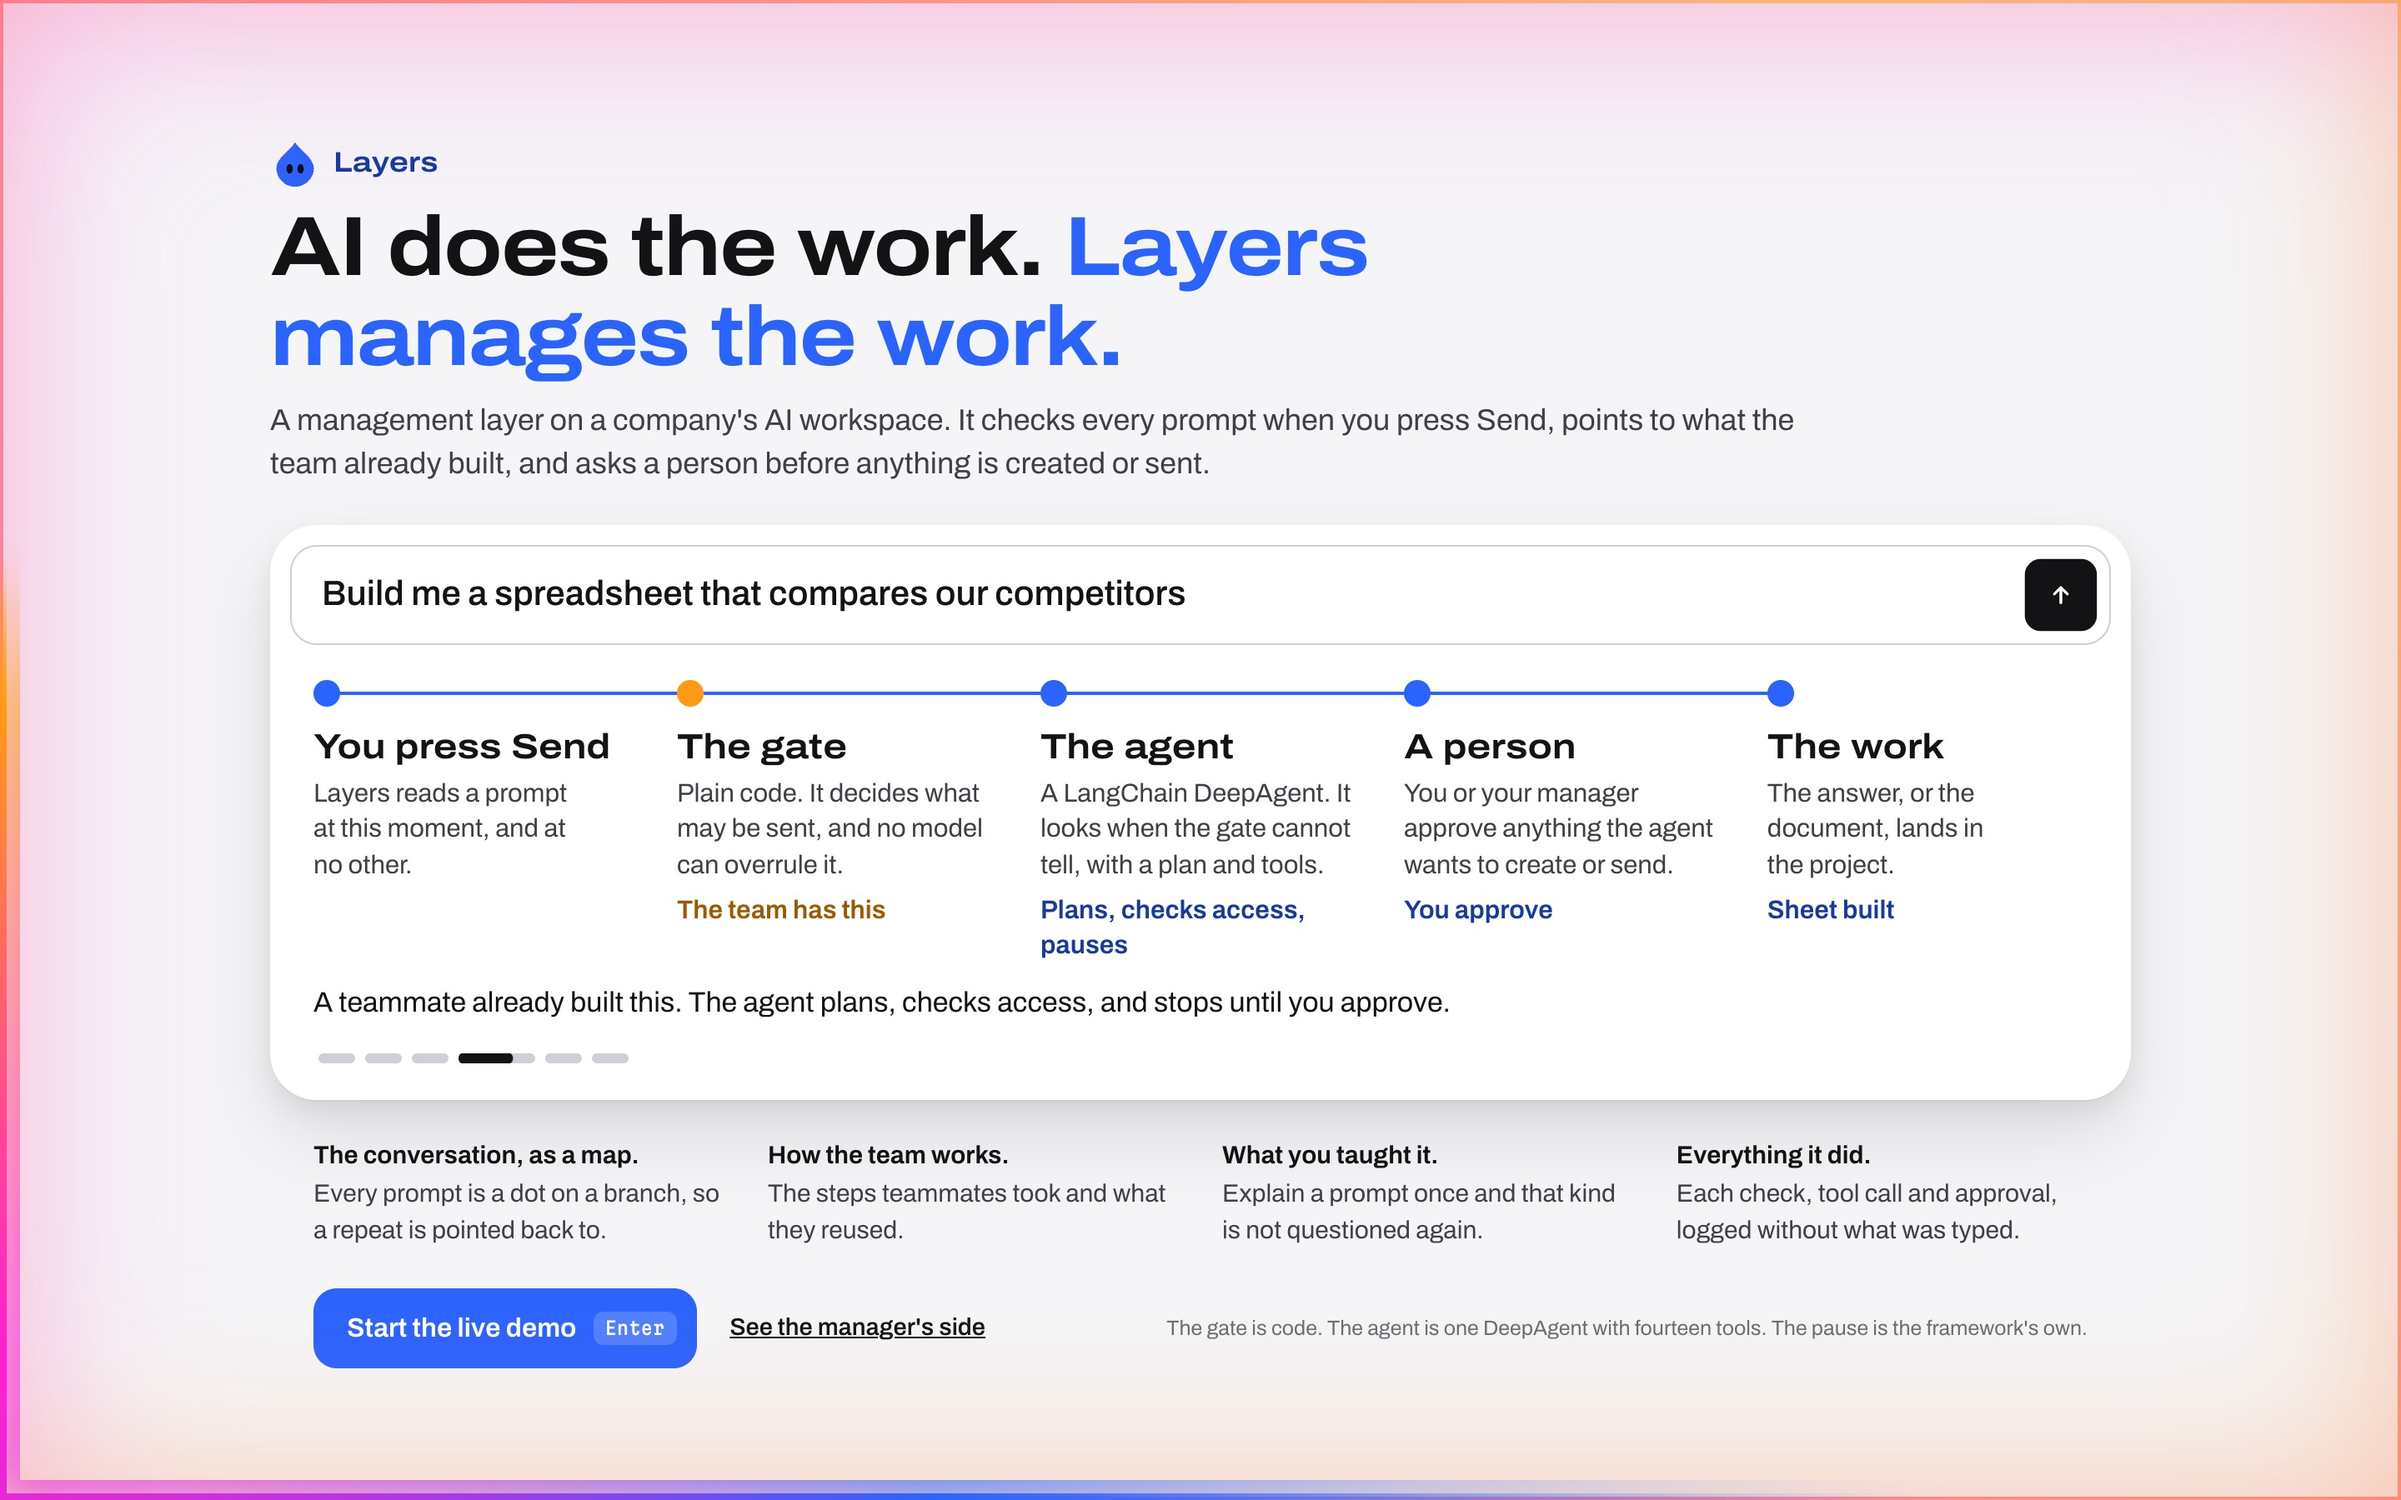
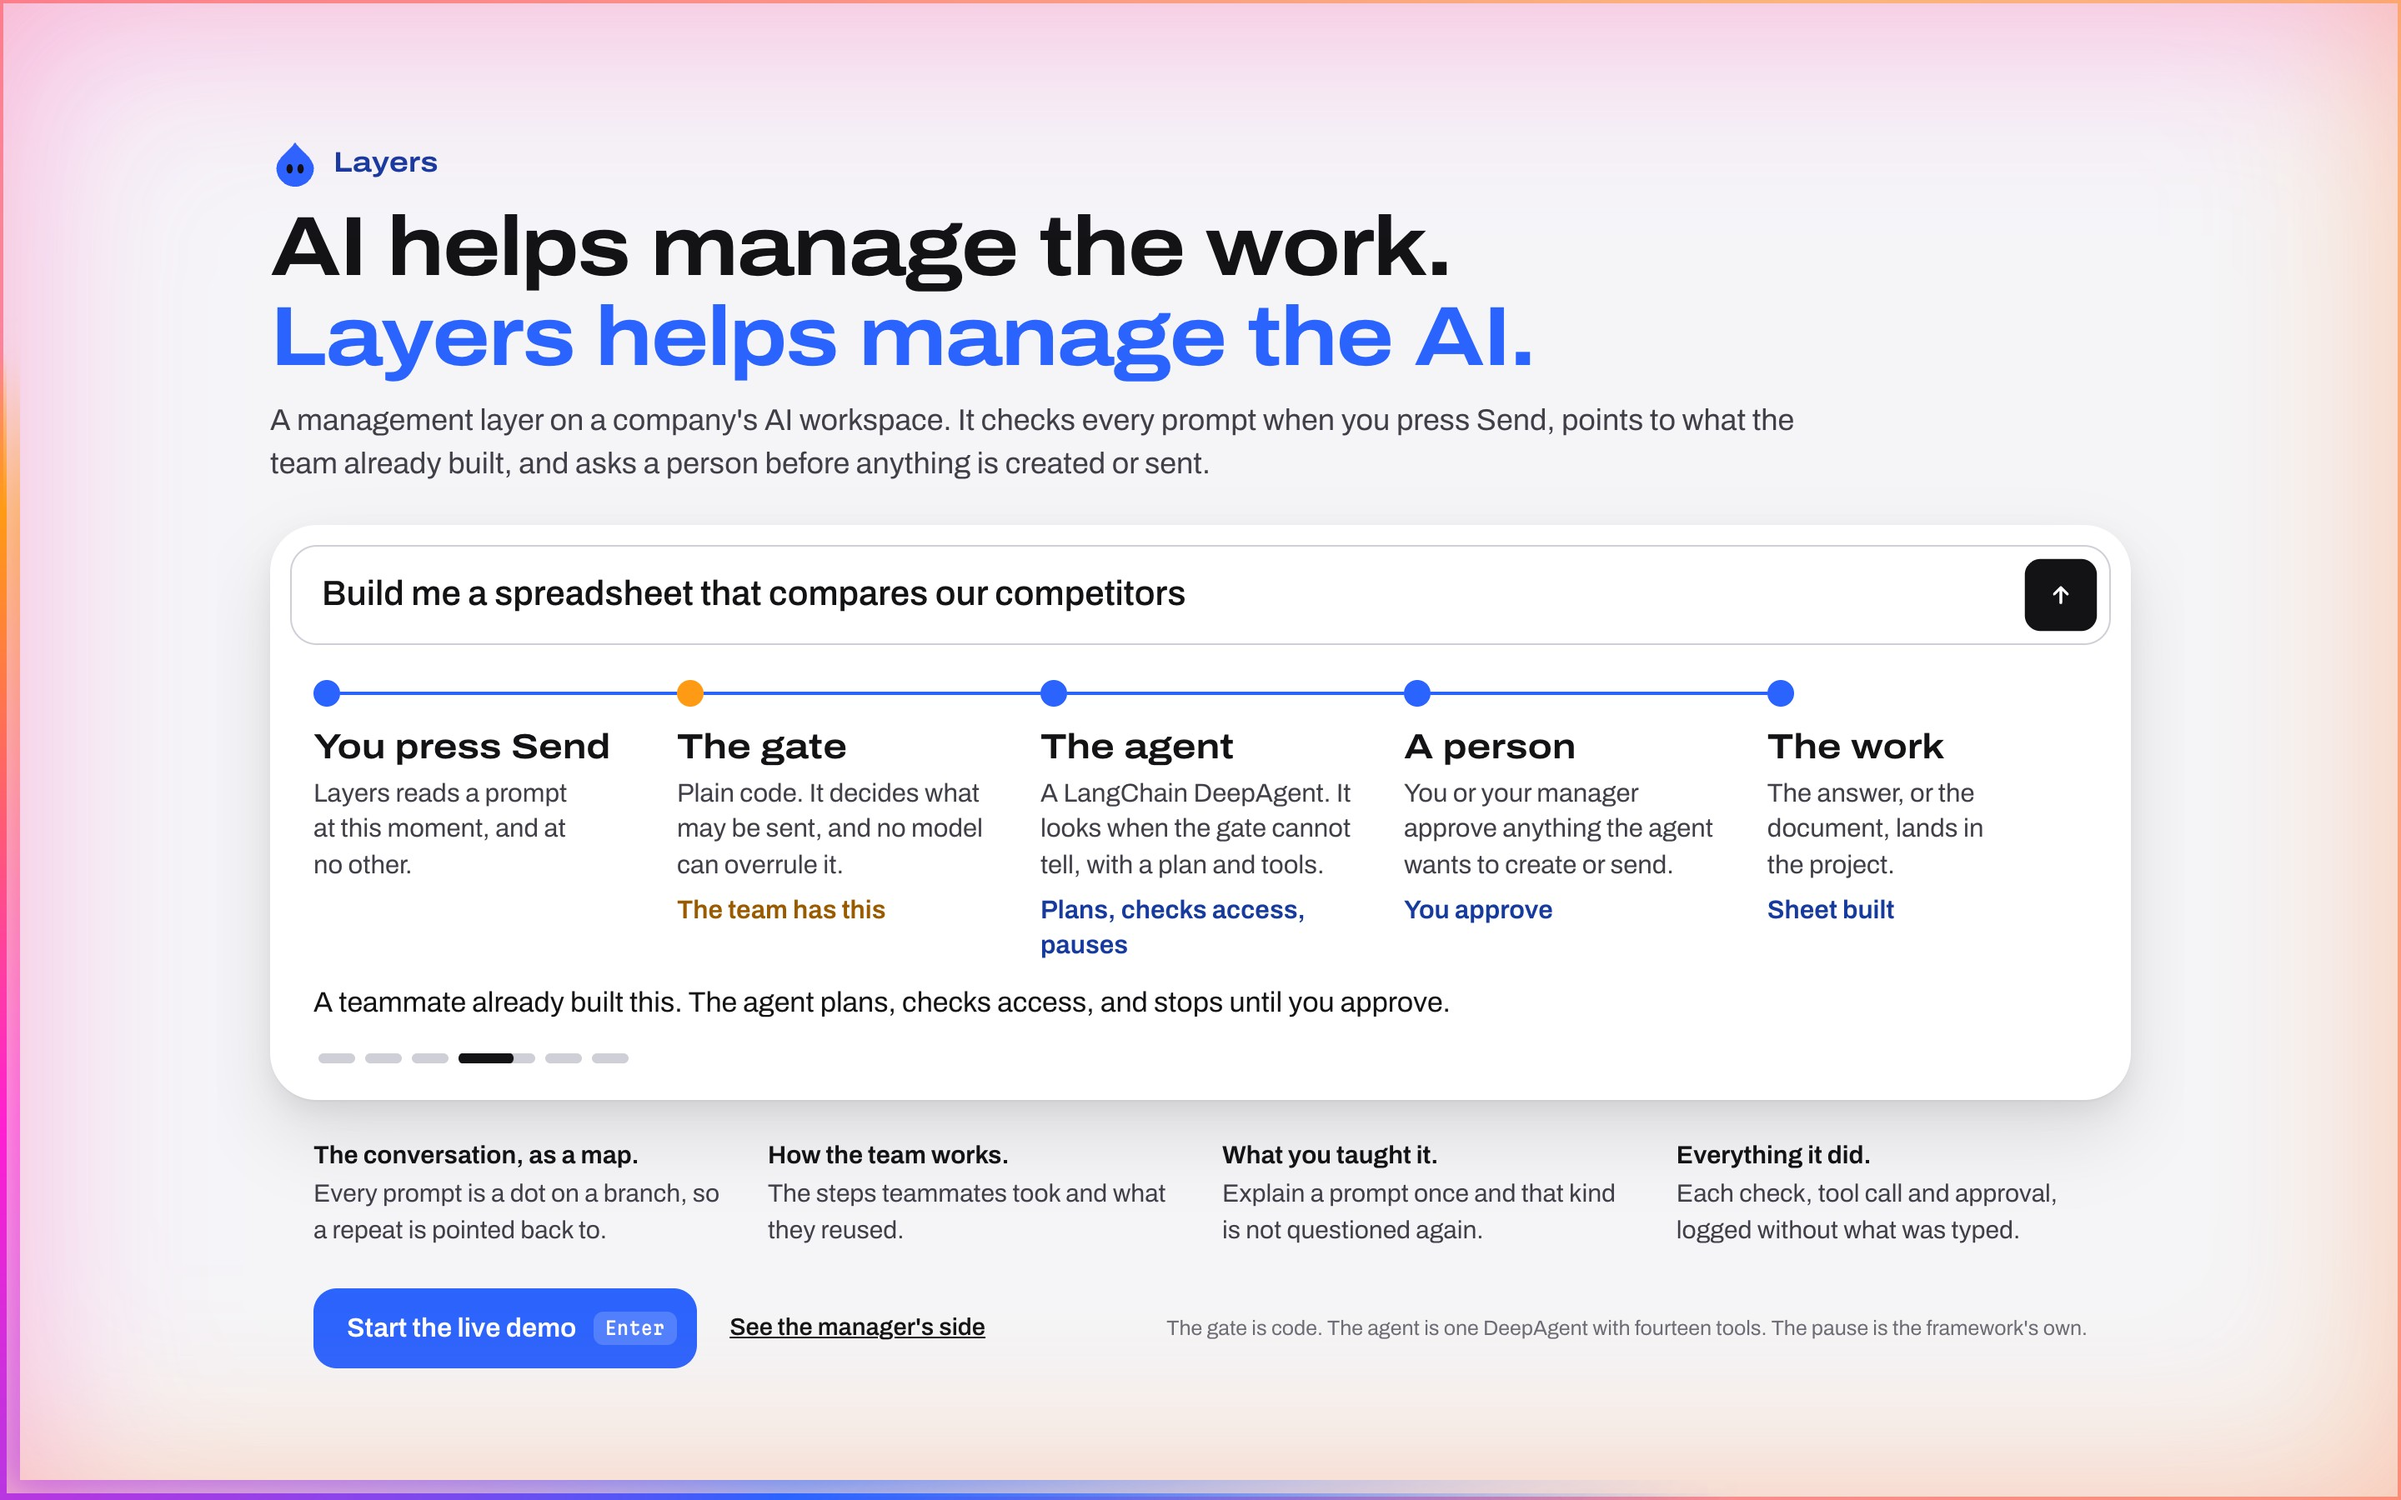
Change the tagline: AI helps manage the work. Layers helps manage the AI.
- On the idle screen, in the README and in the Devpost text and pitch.
- The second sentence always starts its own line.
- docs/shots/00-how-it-works.jpg is retaken with it.

diff --git a/web/src/intro/Intro.tsx b/web/src/intro/Intro.tsx
@@ -156,7 +156,7 @@ export function Intro() {
             Layers
           </p>
           <h1>
-            AI does the work. <span>Layers manages the work.</span>
+            AI helps manage the work. <span>Layers helps manage the AI.</span>
           </h1>
           <p className="intro__sub">
             A management layer on a company's AI workspace. It checks every prompt when you press Send, points to what

diff --git a/web/src/styles/intro.css b/web/src/styles/intro.css
@@ -61,7 +61,9 @@
   text-wrap: balance;
 }
 
+/* The second sentence always starts its own line. */
 .intro h1 span {
+  display: block;
   color: var(--agent);
 }
 

diff --git a/README.md b/README.md
@@ -1,6 +1,6 @@
 # Layers
 
-An intelligent management layer for a company's AI workspace. AI does the work; Layers manages the work.
+An intelligent management layer for a company's AI workspace. AI helps manage the work; Layers helps manage the AI.
 
 Built at HackPrinceton, November 13 to 15, 2026. Track: Business and Enterprise.
 
